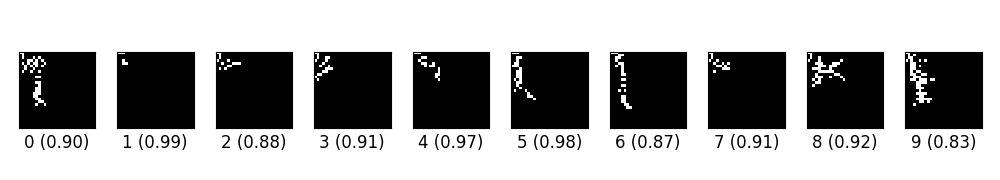
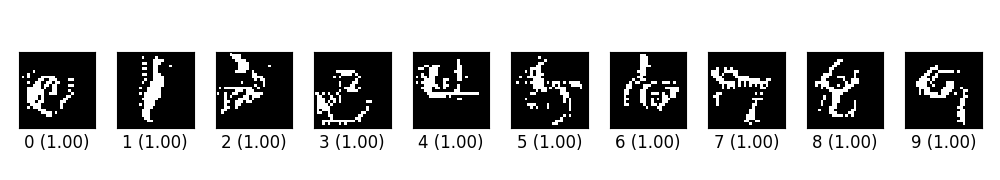
add tf example ex_04, craft adversarial from scratch

diff --git a/tf_example/ex_04.py b/tf_example/ex_04.py
@@ -1,0 +1,231 @@
+import os
+# supress tensorflow logging other than errors
+os.environ['TF_CPP_MIN_LOG_LEVEL'] = '3'
+
+import numpy as np
+import tensorflow as tf
+from tensorflow.contrib.learn import ModeKeys
+
+import matplotlib
+matplotlib.use('Agg')
+import matplotlib.pyplot as plt
+import matplotlib.gridspec as gridspec
+
+from attacks.jsma import jsma
+import mnist
+
+
+img_rows = 28
+img_cols = 28
+img_chas = 1
+input_shape = (img_rows, img_cols, img_chas)
+n_classes = 10
+
+
+print('\nLoading mnist')
+(X_train, y_train), (X_test, y_test) = mnist.load_data()
+
+X_train = X_train.astype('float32') / 255.
+X_test = X_test.astype('float32') / 255.
+
+X_train = X_train.reshape(-1, img_rows, img_cols, img_chas)
+X_test = X_test.reshape(-1, img_rows, img_cols, img_chas)
+
+# one hot encoding
+def _to_categorical(x, n_classes):
+    x = np.array(x, dtype=int).ravel()
+    n = x.shape[0]
+    ret = np.zeros((n, n_classes))
+    ret[np.arange(n), x] = 1
+    return ret
+
+y_train = _to_categorical(y_train, n_classes)
+y_test = _to_categorical(y_test, n_classes)
+
+print('\nShuffling training data')
+ind = np.random.permutation(X_train.shape[0])
+X_train, y_train = X_train[ind], y_train[ind]
+
+# split training/validation dataset
+validation_split = 0.1
+n_train = int(X_train.shape[0]*(1-validation_split))
+X_train, X_valid = X_train[:n_train], X_train[n_train:]
+y_train, y_valid = y_train[:n_train], y_train[n_train:]
+
+# --------------------------------------------------------------------
+
+def model(x, logits=False, training=False):
+    conv0 = tf.layers.conv2d(x, filters=32, kernel_size=[3, 3], padding='same',
+                             name='conv0', activation=tf.nn.relu)
+    pool0 = tf.layers.max_pooling2d(conv0, pool_size=[2, 2], strides=2,
+                                    name='pool0')
+    conv1 = tf.layers.conv2d(pool0, filters=64, kernel_size=[3, 3],
+                             padding='same', name='conv1',
+                             activation=tf.nn.relu)
+    pool1 = tf.layers.max_pooling2d(conv1, pool_size=[2, 2], strides=2,
+                                    name='pool1')
+    flat = tf.reshape(pool1, [-1, 7*7*64], name='flatten')
+    dense = tf.layers.dense(flat, units=128, activation=tf.nn.relu,
+                            name='dense')
+    dropout = tf.layers.dropout(dense, rate=0.25, training=training,
+                                name='dropout')
+    logits_ = tf.layers.dense(dropout, units=10, name='logits')
+    y = tf.nn.softmax(logits_, name='ybar')
+    if logits:
+        return y, logits_
+    return y
+
+
+# Collect all tensors into one "enviroment" to avoid accidental overwriting.
+class Dummy:
+    pass
+env = Dummy()
+
+# We need a scope since the inference graph will be reused later
+with tf.variable_scope('model'):
+    env.x = tf.placeholder(tf.float32, (None, img_rows, img_cols, img_chas),
+                           name='x')
+    env.y = tf.placeholder(tf.float32, (None, n_classes), name='y')
+    env.training = tf.placeholder(bool, (), name='mode')
+
+    env.ybar, logits = model(env.x, logits=True, training=env.training)
+
+    z = tf.argmax(env.y, axis=1)
+    zbar = tf.argmax(env.ybar, axis=1)
+    count = tf.cast(tf.equal(z, zbar), tf.float32)
+    env.acc = tf.reduce_mean(count, name='acc')
+
+    xent = tf.nn.softmax_cross_entropy_with_logits(labels=env.y, logits=logits)
+    env.loss = tf.reduce_mean(xent, name='loss')
+
+env.optim = tf.train.AdamOptimizer().minimize(env.loss)
+
+# Note the reuse=True flag
+with tf.variable_scope('model', reuse=True):
+    env.target = tf.placeholder(tf.int32, ())
+    # set min_proba to 1.1 means we want to finish all the epochs
+    env.x_adv = jsma(model, env.x, env.target, pair=True, epochs=50, eps=1.0,
+                     min_proba=1.1)
+
+env.saver = tf.train.Saver()
+
+# --------------------------------------------------------------------
+
+sess = tf.InteractiveSession()
+sess.run(tf.global_variables_initializer())
+sess.run(tf.local_variables_initializer())
+
+# --------------------------------------------------------------------
+
+def _evaluate(X_data, y_data, env):
+    print('\nEvaluating')
+    n_sample = X_data.shape[0]
+    batch_size = 128
+    n_batch = int(np.ceil(n_sample/batch_size))
+    loss, acc = 0, 0
+    for ind in range(n_batch):
+        print(' batch {0}/{1}'.format(ind+1, n_batch), end='\r')
+        start = ind*batch_size
+        end = min(n_sample, start+batch_size)
+        batch_loss, batch_acc = sess.run(
+            [env.loss, env.acc],
+            feed_dict={env.x: X_data[start:end],
+                       env.y: y_data[start:end],
+                       env.training: False})
+        loss += batch_loss*batch_size
+        acc += batch_acc*batch_size
+    loss /= n_sample
+    acc /= n_sample
+    print(' loss: {0:.4f} acc: {1:.4f}'.format(loss, acc))
+    return loss, acc
+
+
+def _predict(X_data, env):
+    print('\nPredicting')
+    n_sample = X_data.shape[0]
+    batch_size = 128
+    n_batch = int(np.ceil(n_sample/batch_size))
+    yval = np.empty((X_data.shape[0], n_classes))
+    for ind in range(n_batch):
+        print(' batch {0}/{1}'.format(ind+1, n_batch), end='\r')
+        start = ind*batch_size
+        end = min(n_sample, start+batch_size)
+        batch_y = sess.run(env.ybar, feed_dict={
+            env.x: X_data[start:end], env.training: False})
+        yval[start:end] = batch_y
+    print()
+    return yval
+
+# --------------------------------------------------------------------
+
+n_sample = X_train.shape[0]
+batch_size = 128
+n_batch = int(np.ceil(n_sample/batch_size))
+n_epoch = 5
+
+if False:
+    print('\nLoading trained model')
+    env.saver.restore(sess, "data/ex_04.ckpt")
+else:
+    print('\nTraining')
+    for epoch in range(n_epoch):
+        print('Epoch {0}/{1}'.format(epoch+1, n_epoch))
+        for ind in range(n_batch):
+            print(' batch {0}/{1}'.format(ind+1, n_batch), end='\r')
+            start = ind*batch_size
+            end = min(n_sample, start+batch_size)
+            sess.run(env.optim, feed_dict={env.x: X_train[start:end],
+                                           env.y: y_train[start:end],
+                                           env.training: True})
+        _evaluate(X_valid, y_valid, env)
+
+    os.makedirs('data', exist_ok=True)
+    env.saver.save(sess, 'data/ex_04.chpt')
+
+print('\nTesting against clean data')
+_evaluate(X_test, y_test, env)
+
+# --------------------------------------------------------------------
+
+if False:
+    print('\nLoading adversarial')
+    db = np.load('data/ex_04.npz')
+    X_adv, proba = db['X_adv'], db['proba']
+else:
+    print('\nGenerating adversarial')
+    blank = np.zeros((1, 28, 28, 1))
+    X_adv = np.empty((10, 28, 28))
+    proba = np.empty((10,))
+    for i in np.arange(10):
+        print('Target label {0}'.format(i), end='', flush=True)
+        X_i_adv = sess.run(env.x_adv, feed_dict={
+            env.x: blank, env.target: i})
+        y_i_adv = _predict(X_i_adv, env)
+        y1 = np.max(y_i_adv)
+        z1 = np.argmax(y_i_adv)
+        X_adv[i] = np.squeeze(X_i_adv)
+        proba[i] = y1
+        print(' proba: {0:.2f}'.format(y1))
+
+    os.makedirs('data', exist_ok=True)
+    np.savez('data/ex_04.npy', X_adv=X_adv, proba=proba)
+
+
+print('\nGenerating figure')
+
+fig = plt.figure(figsize=(10, 1.8))
+gs = gridspec.GridSpec(1, 10, wspace=0.1, hspace=0.1)
+
+for i in range(10):
+    ax = fig.add_subplot(gs[0, i])
+    bimg = np.copy(X_adv[i])
+    bimg[bimg < 0.5] = 0.0
+    bimg[bimg > 0.4] = 1.0
+    ax.imshow(bimg, cmap='gray', interpolation='none')
+    ax.set_xticks([])
+    ax.set_yticks([])
+    ax.set_xlabel('{0} ({1:.2f})'.format(i, proba[i]), fontsize=12)
+
+gs.tight_layout(fig)
+os.makedirs('img', exist_ok=True)
+plt.savefig('img/ex_04.png')
